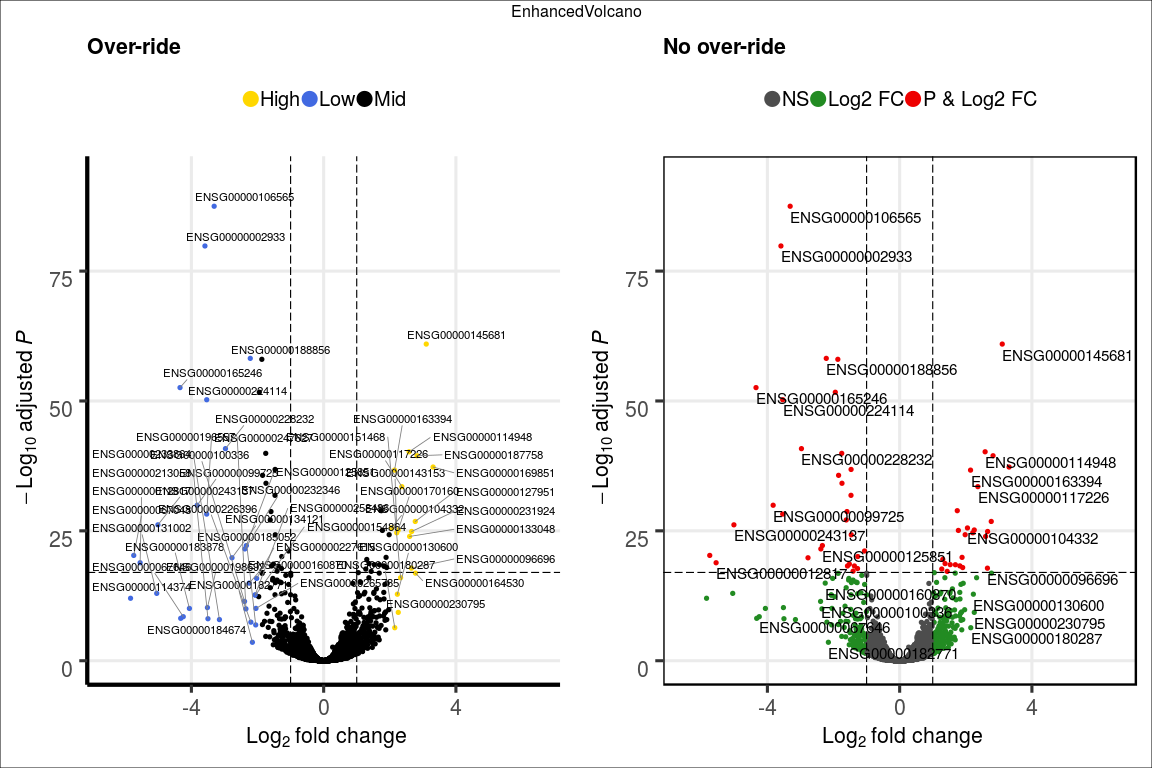
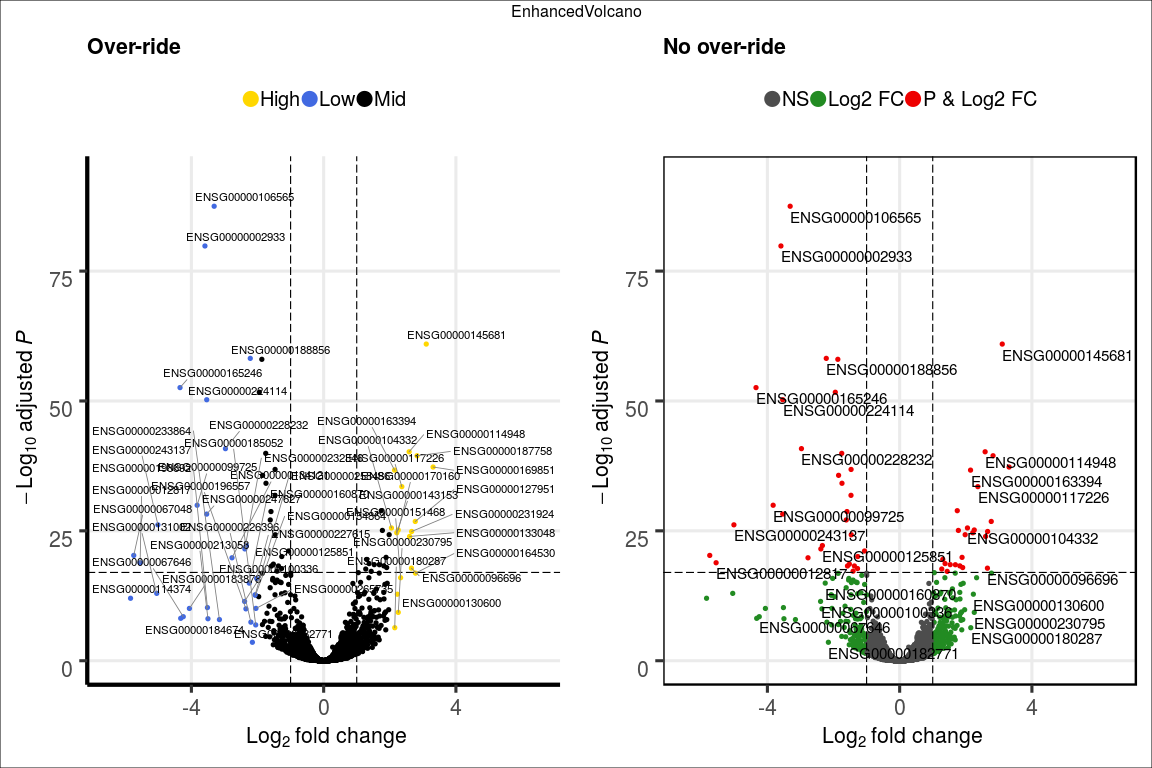
Change DrawConnectors to drawConnectors

Changed region(s): [[0.0625, 0.5312, 0.5, 0.8438]]

diff --git a/README.md b/README.md
@@ -1,7 +1,7 @@
 Publication-ready volcano plots with enhanced colouring and labeling
 ================
 Kevin Blighe
-2018-11-30
+2019-01-17
 
 -   [Introduction](#introduction)
 -   [Installation](#installation)
@@ -869,7 +869,7 @@ Session info
 sessionInfo()
 ```
 
-    ## R version 3.5.1 (2018-07-02)
+    ## R version 3.5.2 (2018-12-20)
     ## Platform: x86_64-pc-linux-gnu (64-bit)
     ## Running under: Ubuntu 16.04.5 LTS
     ## 
@@ -894,38 +894,37 @@ sessionInfo()
     ##  [3] magrittr_1.5                airway_0.115.0             
     ##  [5] SummarizedExperiment_1.11.5 DelayedArray_0.7.48        
     ##  [7] BiocParallel_1.15.12        matrixStats_0.54.0         
-    ##  [9] Biobase_2.41.2              GenomicRanges_1.33.14      
+    ##  [9] Biobase_2.42.0              GenomicRanges_1.33.14      
     ## [11] GenomeInfoDb_1.17.4         IRanges_2.15.18            
-    ## [13] S4Vectors_0.19.22           BiocGenerics_0.27.1        
-    ## [15] EnhancedVolcano_1.1.0       ggrepel_0.8.0              
+    ## [13] S4Vectors_0.20.1            BiocGenerics_0.28.0        
+    ## [15] EnhancedVolcano_1.1.3       ggrepel_0.8.0              
     ## [17] ggplot2_3.1.0               knitr_1.20                 
     ## 
     ## loaded via a namespace (and not attached):
-    ##  [1] bit64_0.9-7            splines_3.5.1          Formula_1.2-3         
+    ##  [1] bit64_0.9-7            splines_3.5.2          Formula_1.2-3         
     ##  [4] assertthat_0.2.0       highr_0.7              latticeExtra_0.6-28   
     ##  [7] blob_1.1.1             GenomeInfoDbData_1.2.0 yaml_2.2.0            
-    ## [10] RSQLite_2.1.1          pillar_1.3.0           backports_1.1.2       
-    ## [13] lattice_0.20-35        glue_1.3.0             digest_0.6.18         
+    ## [10] RSQLite_2.1.1          pillar_1.3.1           backports_1.1.2       
+    ## [13] lattice_0.20-38        glue_1.3.0             digest_0.6.18         
     ## [16] RColorBrewer_1.1-2     XVector_0.21.4         checkmate_1.8.5       
-    ## [19] colorspace_1.3-2       htmltools_0.3.6        Matrix_1.2-14         
+    ## [19] colorspace_1.3-2       htmltools_0.3.6        Matrix_1.2-15         
     ## [22] plyr_1.8.4             XML_3.98-1.16          pkgconfig_2.0.1       
-    ## [25] genefilter_1.63.0      zlibbioc_1.27.0        purrr_0.2.5           
-    ## [28] xtable_1.8-2           scales_1.0.0           tibble_1.4.2          
+    ## [25] genefilter_1.63.0      zlibbioc_1.28.0        xtable_1.8-2          
+    ## [28] purrr_0.2.5            scales_1.0.0           tibble_1.4.2          
     ## [31] htmlTable_1.12         annotate_1.59.0        withr_2.1.2           
     ## [34] nnet_7.3-12            lazyeval_0.2.1         survival_2.42-6       
     ## [37] crayon_1.3.4           memoise_1.1.0          evaluate_0.12         
-    ## [40] MASS_7.3-51            foreign_0.8-70         tools_3.5.1           
+    ## [40] MASS_7.3-51.1          foreign_0.8-70         tools_3.5.2           
     ## [43] data.table_1.11.6      formatR_1.5            stringr_1.3.1         
     ## [46] locfit_1.5-9.1         munsell_0.5.0          cluster_2.0.7-1       
-    ## [49] AnnotationDbi_1.43.1   bindrcpp_0.2.2         compiler_3.5.1        
-    ## [52] rlang_0.3.0            RCurl_1.95-4.11        rstudioapi_0.7        
+    ## [49] AnnotationDbi_1.43.1   bindrcpp_0.2.2         compiler_3.5.2        
+    ## [52] rlang_0.3.1            RCurl_1.95-4.11        rstudioapi_0.7        
     ## [55] htmlwidgets_1.2        labeling_0.3           bitops_1.0-6          
-    ## [58] base64enc_0.1-3        rmarkdown_1.10         gtable_0.2.0          
+    ## [58] base64enc_0.1-3        rmarkdown_1.11.3       gtable_0.2.0          
     ## [61] DBI_1.0.0              R6_2.2.2               dplyr_0.7.7           
     ## [64] bit_1.1-14             bindr_0.1.1            Hmisc_4.1-1           
-    ## [67] rprojroot_1.3-2        stringi_1.2.4          Rcpp_0.12.19          
-    ## [70] geneplotter_1.59.0     rpart_4.1-13           acepack_1.4.1         
-    ## [73] tidyselect_0.2.5
+    ## [67] stringi_1.2.4          Rcpp_1.0.0             geneplotter_1.59.0    
+    ## [70] rpart_4.1-13           acepack_1.4.1          tidyselect_0.2.5
 
 References
 ----------
